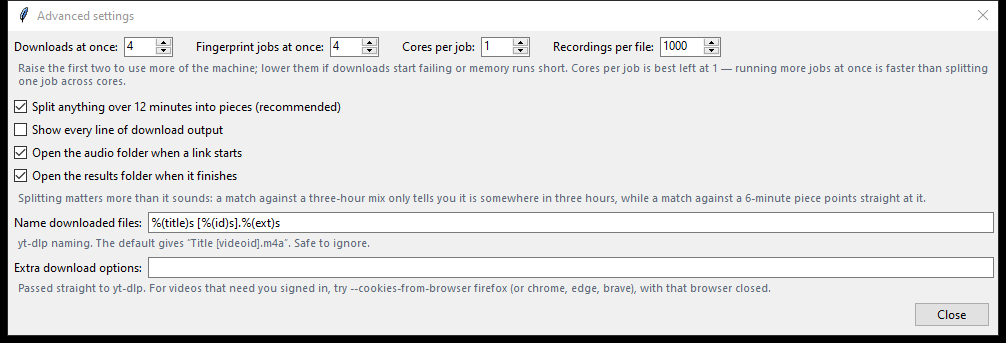
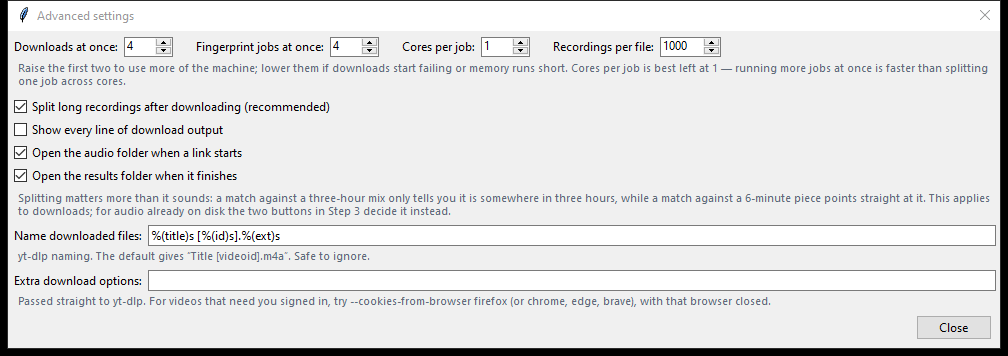
Add a fingerprint-only path that skips the length check entirely
Unticking "split" never avoided the expensive part. _check_long_audio probed
every file with ffprobe first and only then consulted the setting, to decide
whether to split or merely warn. On a collection that has already been split
into pieces that is one process spawn per file, thousands of them, spent
establishing that there was nothing to do.

The check now returns before enumerating anything when splitting is off, and
takes an explicit flag rather than reading the checkbox, so the caller decides.
Measured over a stand-in collection of 2000 files: 2000 ffprobe calls with
splitting on, 0 with it off.

Step 3 gains a second row, "Audio already on disk", with the two variants as
separate buttons -- Split + fingerprint, and Fingerprint only (already split).
Separate buttons rather than one button plus a setting because the difference
is one you do not want to get wrong by accident: one rewrites your files in
place and deletes the originals, the other never touches them. A setting buried
under Advanced is also not something you would find at the moment you needed
it. Each button passes its own flag, so neither depends on the checkbox, which
now covers the download path alone and says so.

The confirmation dialog states which variant it is about, rather than
describing splitting as merely "switched off".

diff --git a/README.md b/README.md
@@ -148,7 +148,8 @@ repository shows what that file looks like.)
 2. **Step 2** — check the folders. If your list has more than one link, fill in
    **Keep finished fingerprints in**.
 3. **Step 3** — press **Download and fingerprint**, and watch *What it is doing*
-   at the bottom.
+   at the bottom. (Already have the audio? Use one of the *Audio already on
+   disk* buttons instead.)
 
 **It does not stop to ask you anything.** It lists the link, prints a size and
 an estimated download time to the log, and gets going. Read those numbers as
@@ -163,10 +164,19 @@ in** points (or in the `pklz-files` folder), and that folder opens for you.
 cut, fingerprint, then delete the downloaded audio. This is the one you want
 almost always.
 
-**Split + fingerprint files I already have** — skips downloading and works on
-audio already sitting in your working folder. Use it for audio of your own, or
-to pick up after a crash. It is also the gentler of the two: it does *not*
-clear the results folder, so fingerprints you already have survive.
+Under **Audio already on disk** are two buttons that both skip downloading and
+work on what is already in your working folder. Neither clears the results
+folder, so fingerprints you already have survive either one.
+
+**Split + fingerprint** — checks how long every file is and cuts anything over
+12 minutes before fingerprinting. Use it for audio of your own that has not
+been split yet.
+
+**Fingerprint only (already split)** — fingerprints the files exactly as they
+are. Use it when the audio has already been split. This is not just a matter of
+skipping the cutting: it skips the length check as well, and that check costs
+one read per file. Over a collection of several thousand pieces that is a long
+wait purely to be told there was nothing to do.
 
 **Skip this link** — moves on to the next one in the list. It takes effect
 between stages rather than instantly, so a download already in flight finishes
@@ -203,7 +213,7 @@ needs changing to get a good result.
 | **Fingerprint jobs at once** (4) | How many fingerprinting jobs run side by side. The main speed control once downloading is done. |
 | **Cores per job** (1) | Best left at 1. audfprint's own multi-core mode is slower in practice than simply running more jobs at once. |
 | **Recordings per file** (1000) | How many recordings go into one `.pklz`. Keep it high: a matching tool reloads *every* `.pklz` each time it runs, so many small ones make every future search slower. |
-| **Split anything over 12 minutes** (on) | **Leave this on.** Explained below. |
+| **Split long recordings after downloading** (on) | **Leave this on.** Applies to *Download and fingerprint*; for audio already on disk the two Step 3 buttons decide it instead. Explained below. |
 | **Show every line of download output** | Useful when diagnosing a failure, noisy otherwise. |
 | **Open the audio folder when a link starts** | Opens it so you can watch files arrive. |
 | **Open the results folder when it finishes** | Opens your fingerprints at the end. |
@@ -234,7 +244,7 @@ Inside the program's own folder:
 
 Once the downloading stage is done, these are cleared before fingerprinting
 begins — `texts\` and `pklz-files\` for **Download and fingerprint**, only
-`texts\` for **Split + fingerprint files I already have**.
+`texts\` for either of the *Audio already on disk* buttons.
 
 > If they are not already empty you get a prompt first — **but that prompt
 > answers itself with "yes, delete" after two minutes** if nobody is at the
@@ -284,9 +294,9 @@ browser profile, and it fails with a "file not found" error mentioning
   flicker black windows across your screen.
 - **Closing the window saves your settings**, including your list.
 - **It does not fingerprint the same batch twice.** Finished work is recorded in
-  `fingerprinted.json` beside the `.pklz` files. To resume after a crash, press
-  **Split + fingerprint files I already have** — not **Download and
-  fingerprint**, which clears the results folder and takes that record with it.
+  `fingerprinted.json` beside the `.pklz` files. To resume after a crash, use
+  one of the *Audio already on disk* buttons — not **Download and fingerprint**,
+  which clears the results folder and takes that record with it.
 
 ## Credits
 
